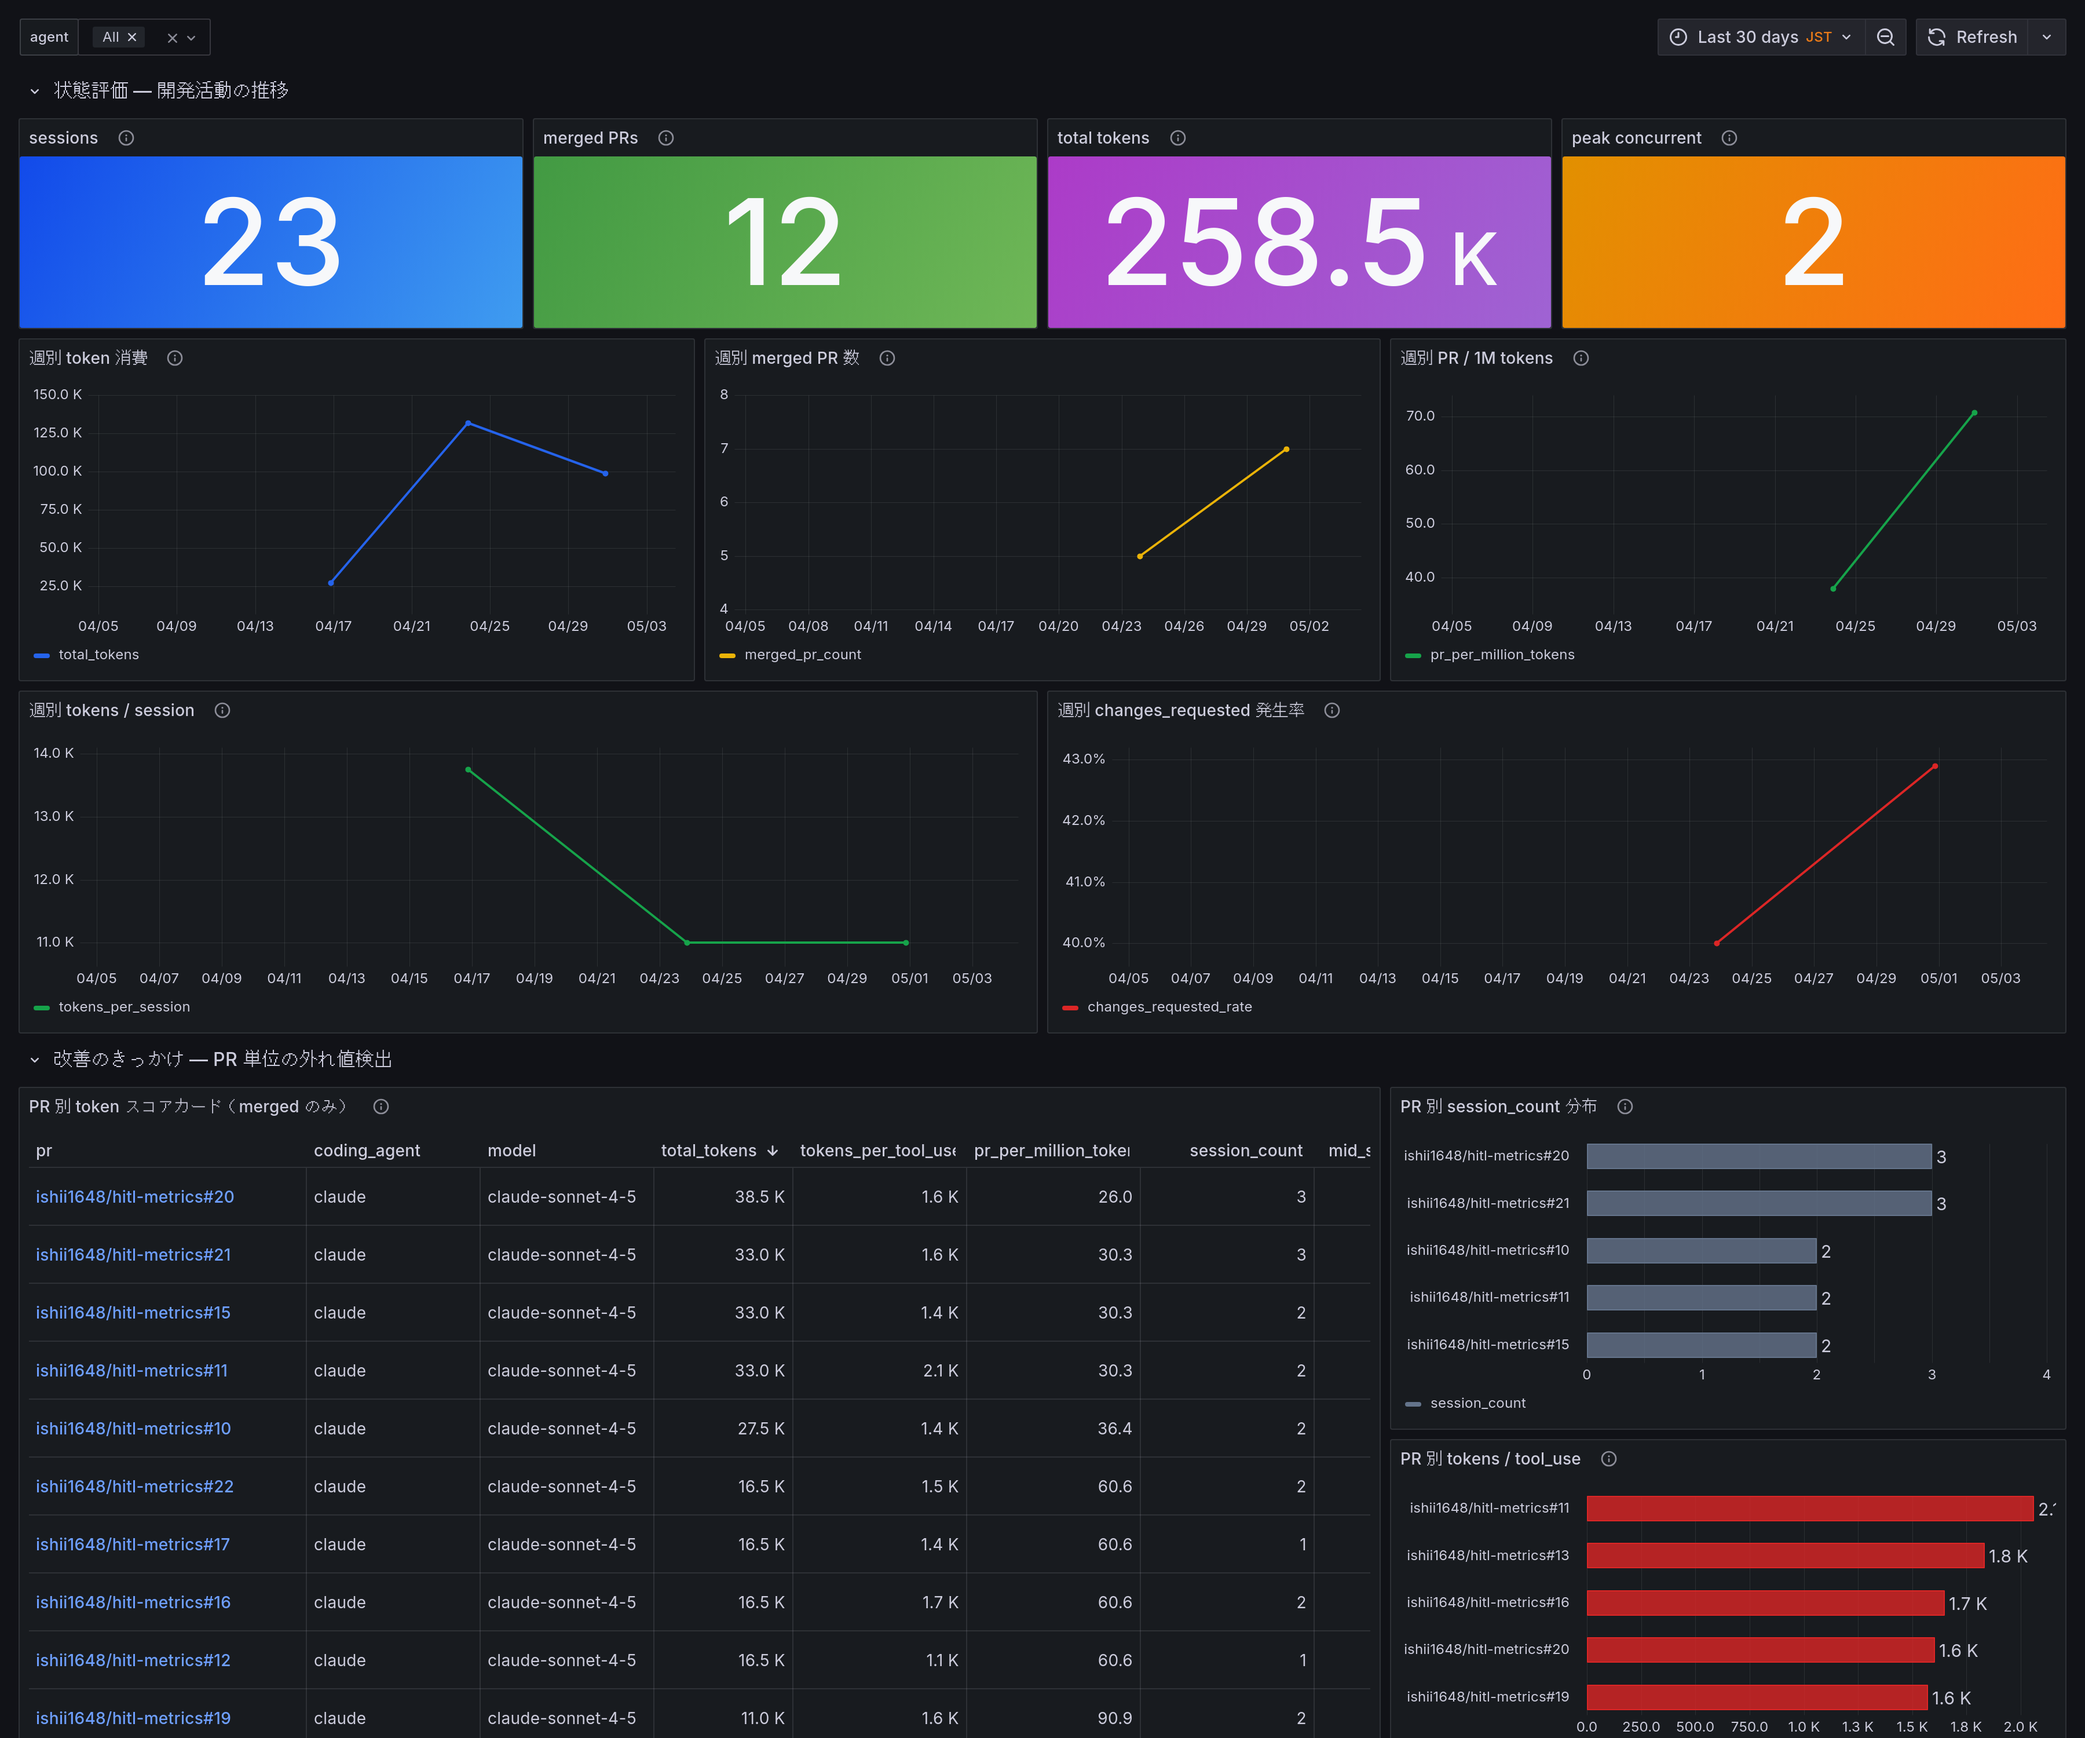
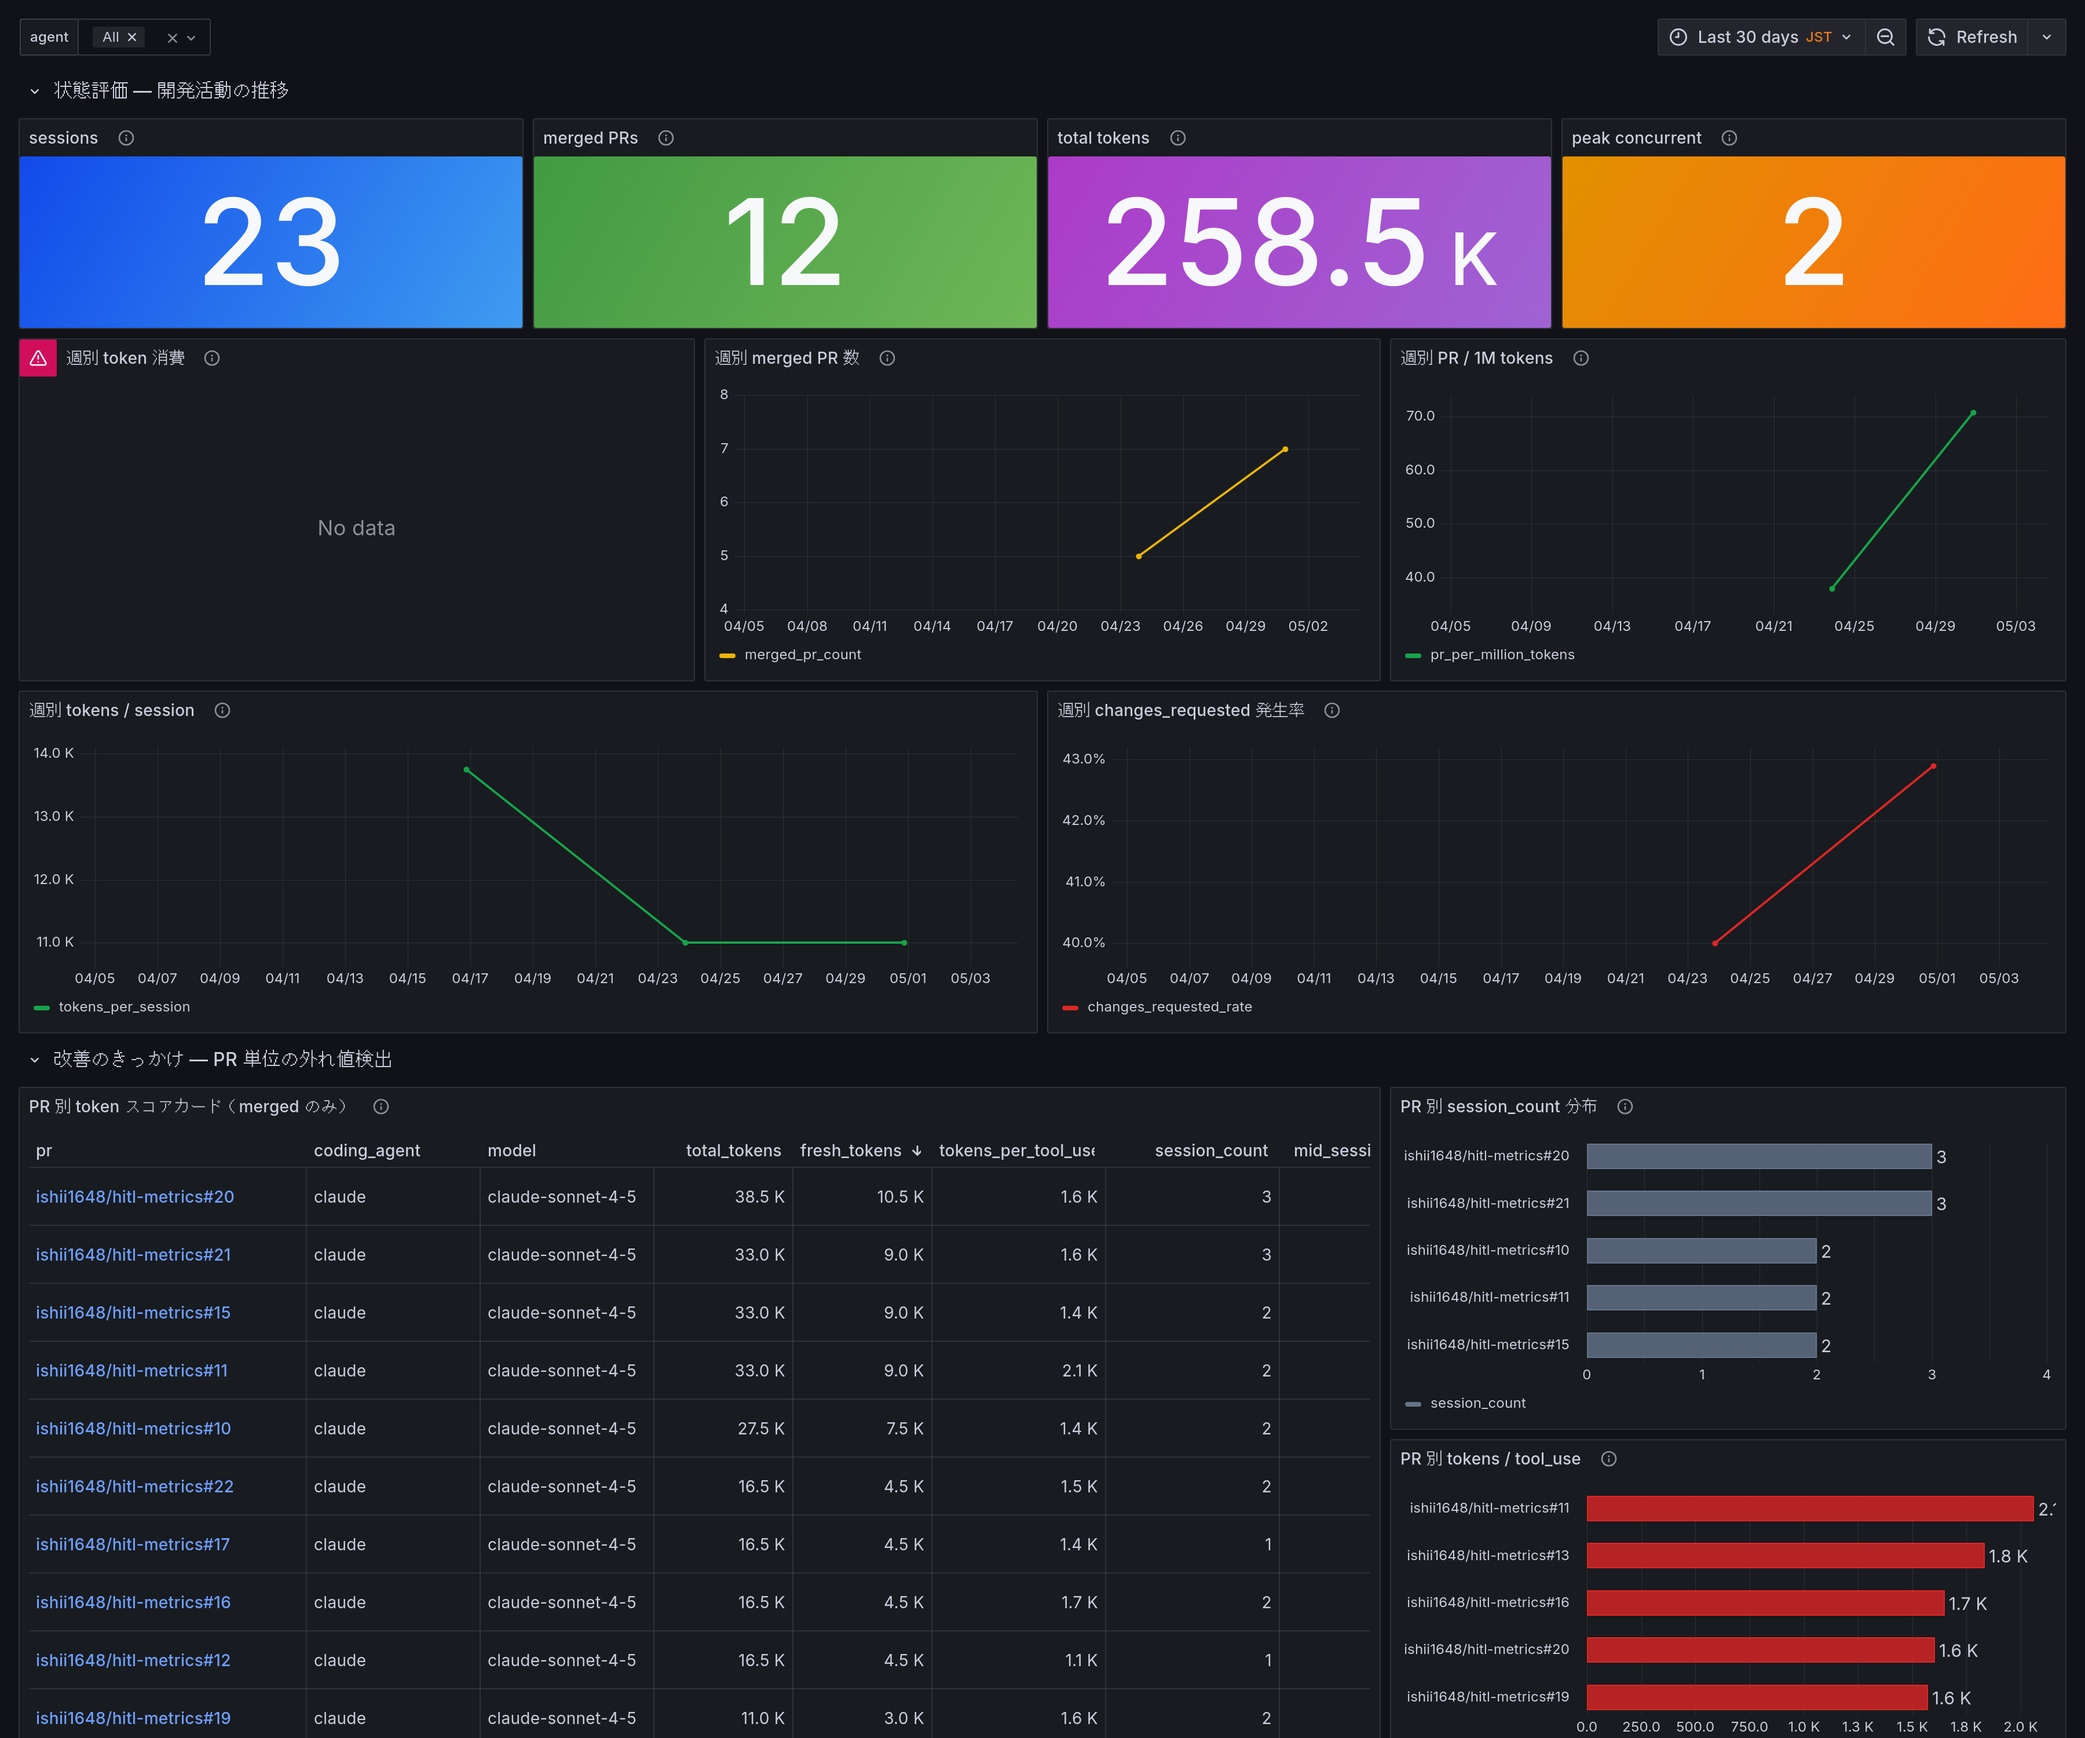
feat(pr-metrics): add fresh_tokens excluding cache_read
intent(pr-metrics): total_tokens が long-running session の cache_read で支配され、PR の「重さ」体感と乖離する問題への代替指標が欲しい
decision(pr-metrics): fresh_tokens = input + output + cache_write + reasoning（cache_read を除く）。cache_read（再利用）との対義語として意味が立ち、列ヘッダで読みやすい
rejected(pr-metrics): billable_tokens — cache_read も input の 1/10 で課金されるため「非課金」と誤解される命名
rejected(dashboard-scorecard): cache_read_tokens を独立列で追加 — total_tokens 比 99% に達する場面で他列が視覚ノイズになる
decision(dashboard-scorecard): reasoning_tokens / changes_requested / pr_per_million_tokens 列を除外し fresh_tokens を total_tokens の隣に追加、デフォルトソートを fresh_tokens DESC に変更
constraint(pr-metrics): pr_per_million_tokens / reasoning_tokens は VIEW カラムとして残す。ダッシュボードからの除外に留めて指標カタログ後方互換を保つ
learned(pr-metrics): tmux-sidebar#40 は 270M total_tokens のうち 247M (98.7%) が cache_read。5 時間 × 529 tool 呼び出しで cache_read が線形膨張し、input+output の 1.6M を 100 倍以上覆い隠していた

diff --git a/internal/syncdb/schema_hash.go b/internal/syncdb/schema_hash.go
@@ -2,4 +2,4 @@
 
 package syncdb
 
[2 lines of base64/hex data omitted]

diff --git a/docs/spec.md b/docs/spec.md
@@ -202,13 +202,13 @@ PR 単位の集約ビュー。次のフィルタ条件を適用する。
 | `is_ghost = 0` | ゴーストセッションを除外 |
 | `repo NOT IN ('ishii1648/dotfiles')` | dotfiles リポジトリを除外 |
 
-集約カラム: `pr_url`, `coding_agent`, `model`, `session_count`, `tool_use_total`, `mid_session_msgs`, `ask_user_question`, `input_tokens`, `output_tokens`, `cache_write_tokens`, `cache_read_tokens`, `reasoning_tokens`, `review_comments`, `changes_requested`, `total_tokens`, `tokens_per_session`, `tokens_per_tool_use`, `pr_per_million_tokens`
+集約カラム: `pr_url`, `coding_agent`, `model`, `session_count`, `tool_use_total`, `mid_session_msgs`, `ask_user_question`, `input_tokens`, `output_tokens`, `cache_write_tokens`, `cache_read_tokens`, `reasoning_tokens`, `review_comments`, `changes_requested`, `total_tokens`, `fresh_tokens`, `tokens_per_session`, `tokens_per_tool_use`, `pr_per_million_tokens`
 
 `task_type` は集約軸から外れている（ADR-024 で「定量指標は task_type を集計軸に使わない」方針が採用されたため）。`sessions.task_type` カラム自体は後方互換と任意フィルタの余地として残す。
 
 GROUP BY は (`pr_url`, `coding_agent`)。同一 PR が複数 agent から触られた場合は agent ごとに別行になる（実運用上ほぼ発生しないが意味的に分離する）。
 
-`total_tokens` は input / output / cache write / cache read / reasoning token の合計。`pr_per_million_tokens` は 100 万 token あたりに完了した PR 数。
+`total_tokens` は input / output / cache write / cache read / reasoning token の合計。`fresh_tokens` は `cache_read_tokens` を除いた合計（input / output / cache write / reasoning）。長時間セッションで `cache_read_tokens` が支配的になり「重さ」の体感と乖離する場面の代替指標。`pr_per_million_tokens` は 100 万 token あたりに完了した PR 数。
 
 ### `session_concurrency_daily` / `session_concurrency_weekly` VIEW
 
